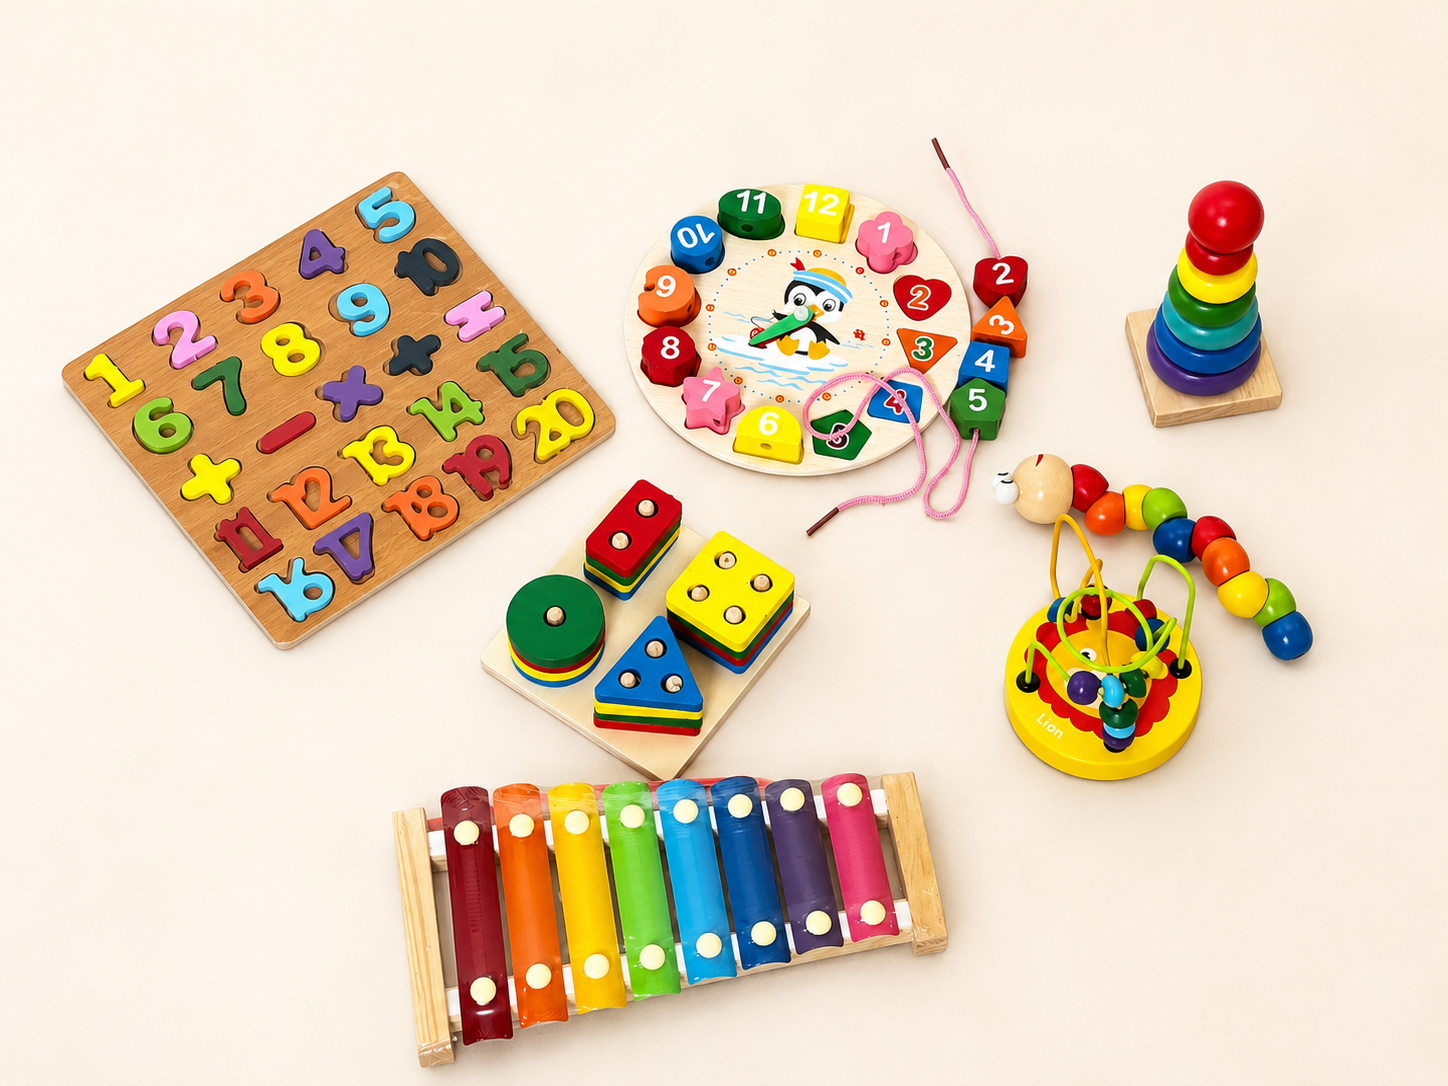
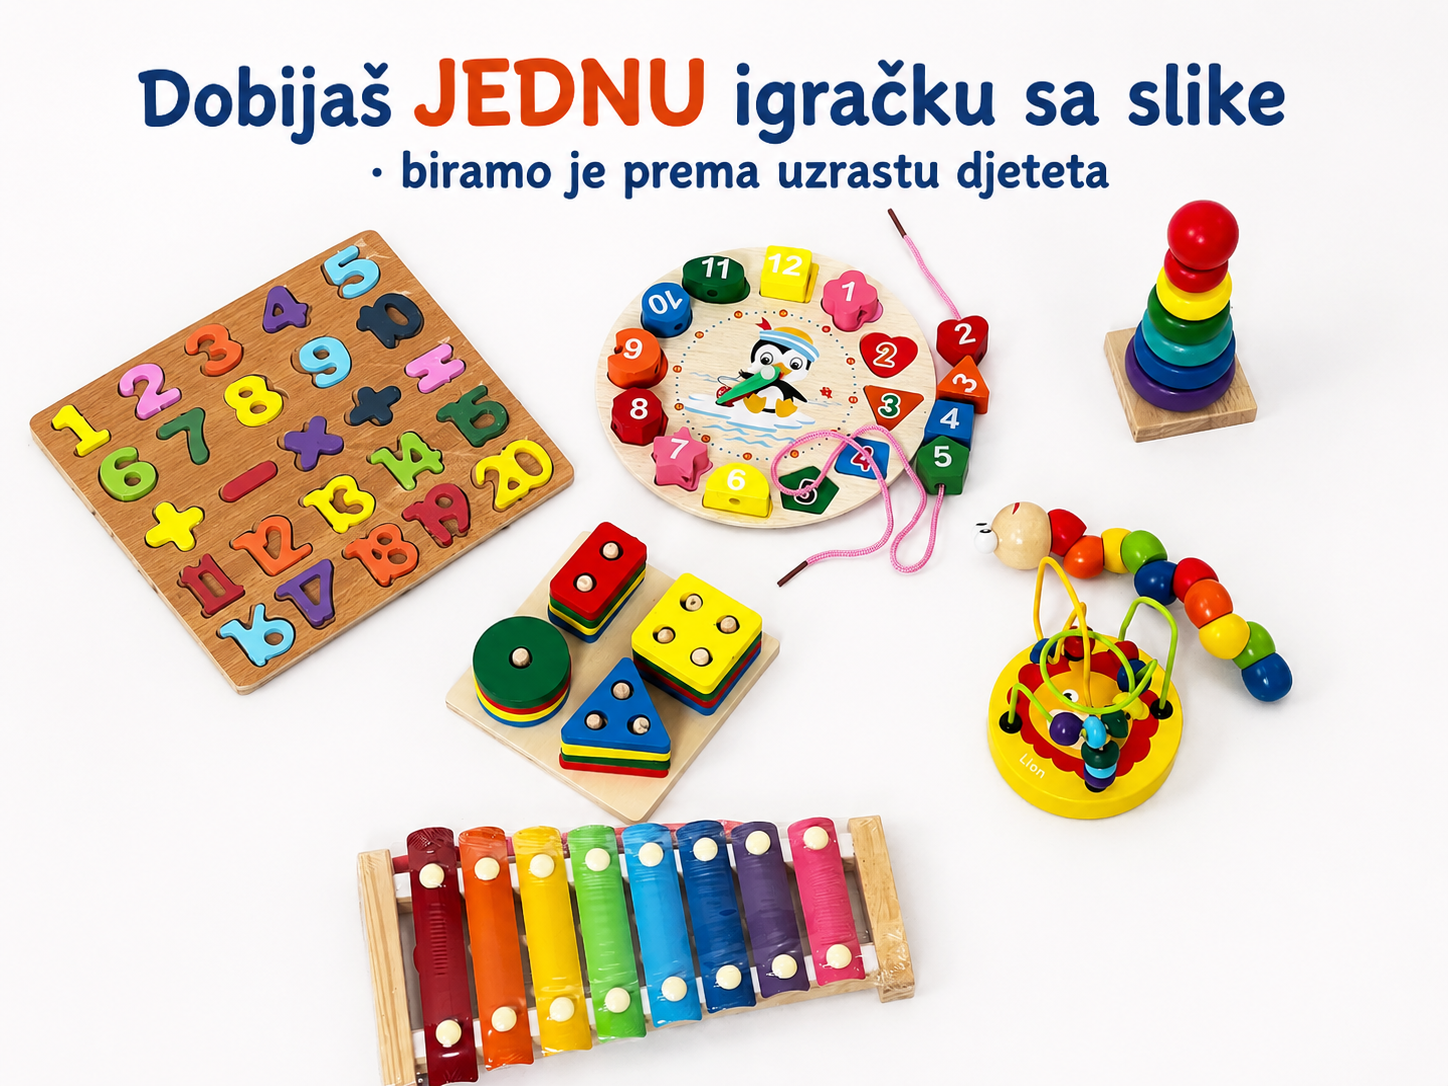
Update igracke-izbor.png (now has the "one toy, chosen by age" text baked in) and drop the now-redundant code caption

diff --git a/src/components/ProductSet.tsx b/src/components/ProductSet.tsx
@@ -52,18 +52,6 @@ export default function ProductSet() {
                 alt="Izbor drvenih Montessori igračaka – biramo jednu prema uzrastu djeteta"
               />
             </div>
-            <p
-              style={{
-                fontSize: ".78rem",
-                color: "var(--ink3)",
-                fontWeight: 500,
-                lineHeight: 1.5,
-                padding: "10px 22px 0",
-              }}
-            >
-              Igračke na slici su primjeri. Dobijaš <strong>JEDNU</strong>,
-              biranu prema uzrastu koji upišeš pri narudžbi.
-            </p>
             <div className="set-body">
               <h3>Montessori drvena igračka</h3>
               <div className="set-spec">
